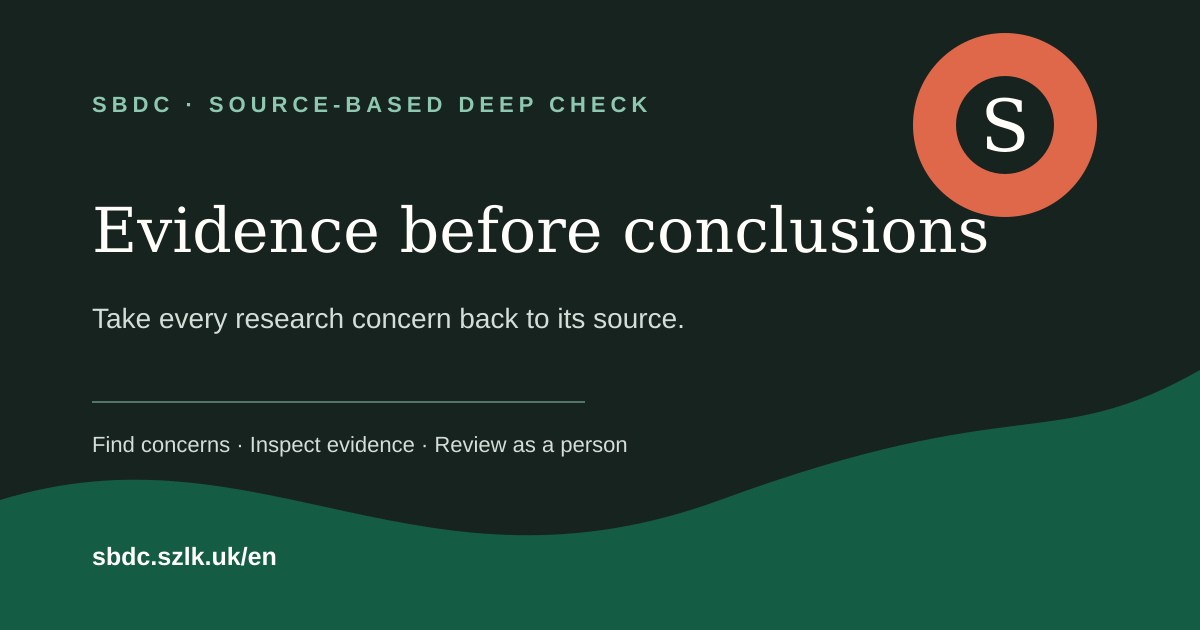
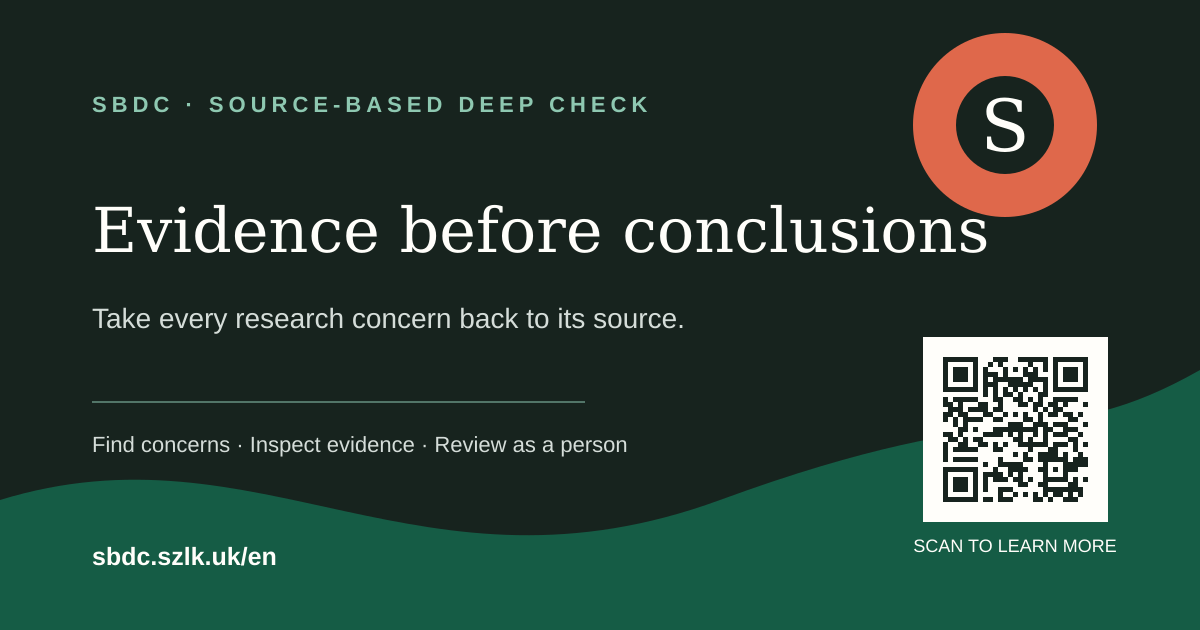
fix(web): complete postcard and layout alignment
Add locale-specific scannable QR codes to the final postcard assets, align footer legal links to the right, and put page shells on the shared site-width track while preserving readable legal copy.

Verification: web typecheck, production build, 20 end-to-end checks, QR decoding, and desktop/mobile browser review.

SoloMap-Task: task-70e1c28b-7ba8-4d30-83d4-dbfdef4ee75b

Changed region(s): [[0.7708, 0.5127, 0.925, 0.8746]]

diff --git a/apps/web/app/globals.css b/apps/web/app/globals.css
@@ -170,7 +170,7 @@ button:focus-visible, a:focus-visible, input:focus-visible, textarea:focus-visib
 .footer-inner { width: min(100% - 48px, var(--site-width)); margin: 0 auto; display: grid; grid-template-columns: 1fr 1.25fr; gap: 48px 80px; }
 .footer-brand { color: #fff; font: 500 25px Georgia, serif; text-decoration: none; }
 .footer-company p { margin: 10px 0 0; color: #98a39e; font-size: 12px; }
-.footer-inner nav { display: grid; grid-template-columns: repeat(2, 1fr); gap: 15px 24px; }
+.footer-inner nav { display: grid; grid-template-columns: repeat(2, max-content); justify-self: end; justify-items: end; gap: 15px 24px; text-align: right; }
 .footer-inner nav a { color: #d5ddd9; font-size: 13px; text-underline-offset: 4px; }
 .footer-note { grid-column: 1 / -1; padding-top: 25px; margin: 0; border-top: 1px solid #314039; color: #98a39e; font-size: 12px; }
 .submit-shell { max-width: 1120px; margin: 0 auto; padding: 76px 24px 100px; display: grid; grid-template-columns: 1fr 460px; gap: 90px; align-items: start; }
@@ -340,7 +340,7 @@ button:focus-visible, a:focus-visible, input:focus-visible, textarea:focus-visib
   .process-copy li { grid-template-columns: 1fr; gap: 7px; }
   .site-footer { padding: 46px 0; }
   .footer-inner { width: calc(100% - 32px); grid-template-columns: 1fr; gap: 34px; }
-  .footer-inner nav { grid-template-columns: 1fr 1fr; }
+  .footer-inner nav { max-width: 100%; grid-template-columns: repeat(2, minmax(0, max-content)); }
   .queue-list { grid-template-columns: 1fr; }
   .public-index { width: calc(100% - 32px); padding: 54px 0 76px; }
   .public-card-list article { padding: 24px 20px; }
@@ -353,4 +353,35 @@ button:focus-visible, a:focus-visible, input:focus-visible, textarea:focus-visib
   .faq-section { padding: 72px 0; }
   .postcard-section { padding-top: 60px; }
   .postcard-actions { align-items: stretch; flex-direction: column; }
+}
+
+.login-shell,
+.home-shell,
+.workspace-shell,
+.marketing-hero,
+.process-section,
+.submit-shell,
+.public-index,
+.legal-shell,
+.about-shell {
+  width: min(100% - 48px, var(--site-width));
+  max-width: none;
+  margin-left: auto;
+  margin-right: auto;
+  padding-left: 0;
+  padding-right: 0;
+}
+
+.legal-shell > * { max-width: 780px; }
+
+@media (max-width: 560px) {
+  .login-shell,
+  .home-shell,
+  .workspace-shell,
+  .marketing-hero,
+  .process-section,
+  .submit-shell,
+  .public-index,
+  .legal-shell,
+  .about-shell { width: calc(100% - 32px); }
 }

diff --git a/apps/web/app/about/postcard.tsx b/apps/web/app/about/postcard.tsx
@@ -31,7 +31,7 @@ export function Postcard({ locale }: { locale: Locale }) {
 
   return <section className="postcard-section" aria-labelledby="postcard-title">
     <div className="postcard-copy"><p className="eyebrow">{en ? "Share SBDC" : "分享 SBDC"}</p><h2 id="postcard-title">{en ? "Send a reviewable idea further" : "让可复核的科研监督走得更远"}</h2><p>{en ? "Save the postcard or share this page with someone who cares about evidence-led research integrity review." : "保存这张明信片，或把页面分享给同样关心科研诚信与证据复核的人。"}</p></div>
-    <figure className="postcard"><img src={source} width="1200" height="630" alt={en ? "SBDC sharing postcard: Evidence before conclusions" : "SBDC 分享明信片：证据先于结论"} /></figure>
+    <figure className="postcard"><img src={source} width="1200" height="630" alt={en ? "SBDC sharing postcard with a QR code: Evidence before conclusions" : "带二维码的 SBDC 分享明信片：证据先于结论"} /></figure>
     <div className="postcard-actions"><a className="primary-link" href={source} download={filename}>{en ? "Save postcard" : "保存明信片"}</a><button className="secondary-button" type="button" onClick={share}>{en ? "Share postcard" : "分享明信片"}</button><span role="status" aria-live="polite">{status}</span></div>
   </section>;
 }
